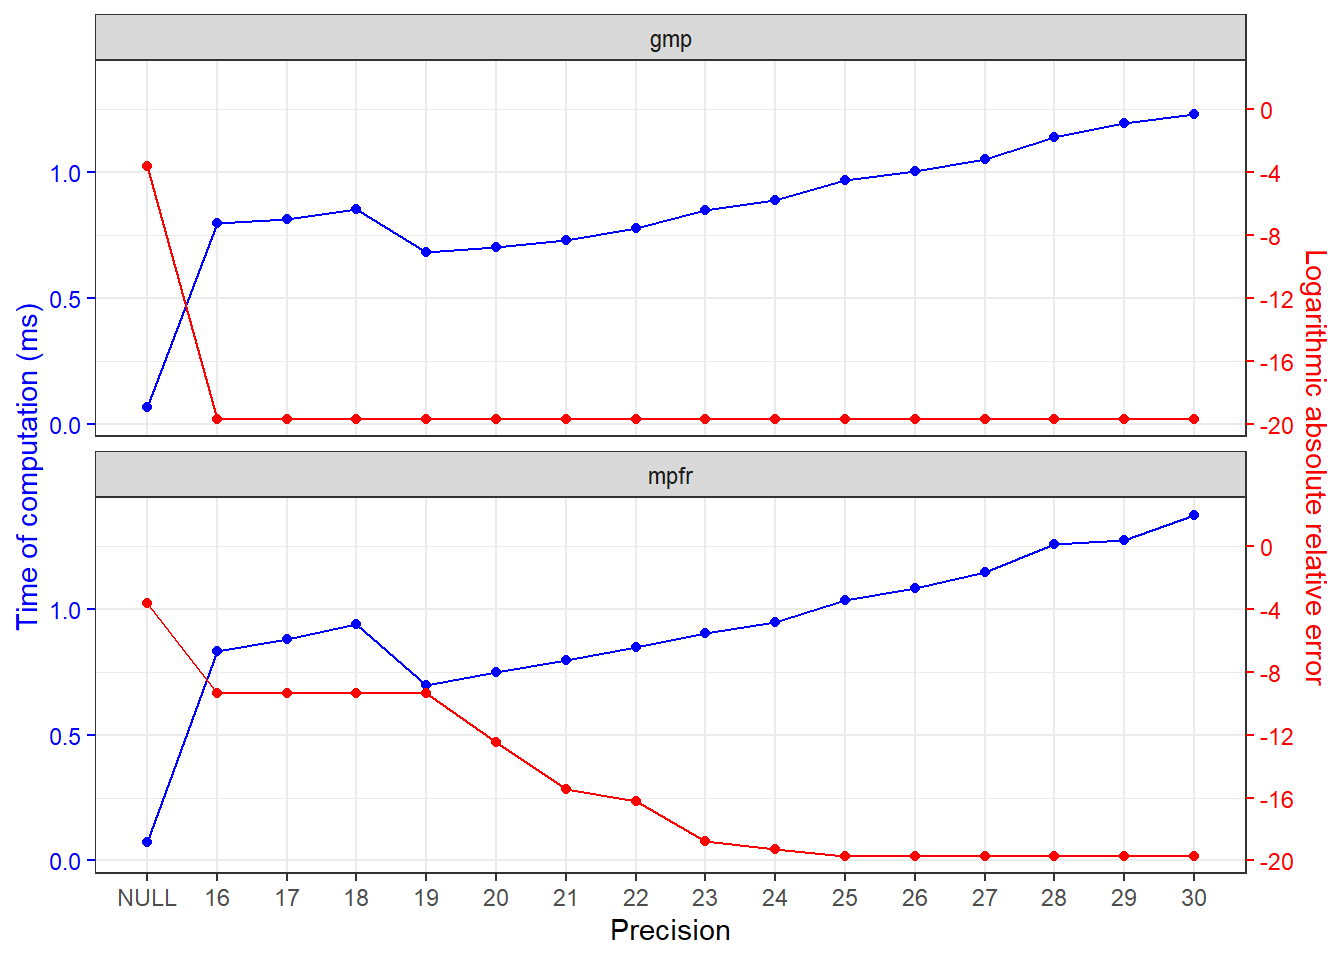
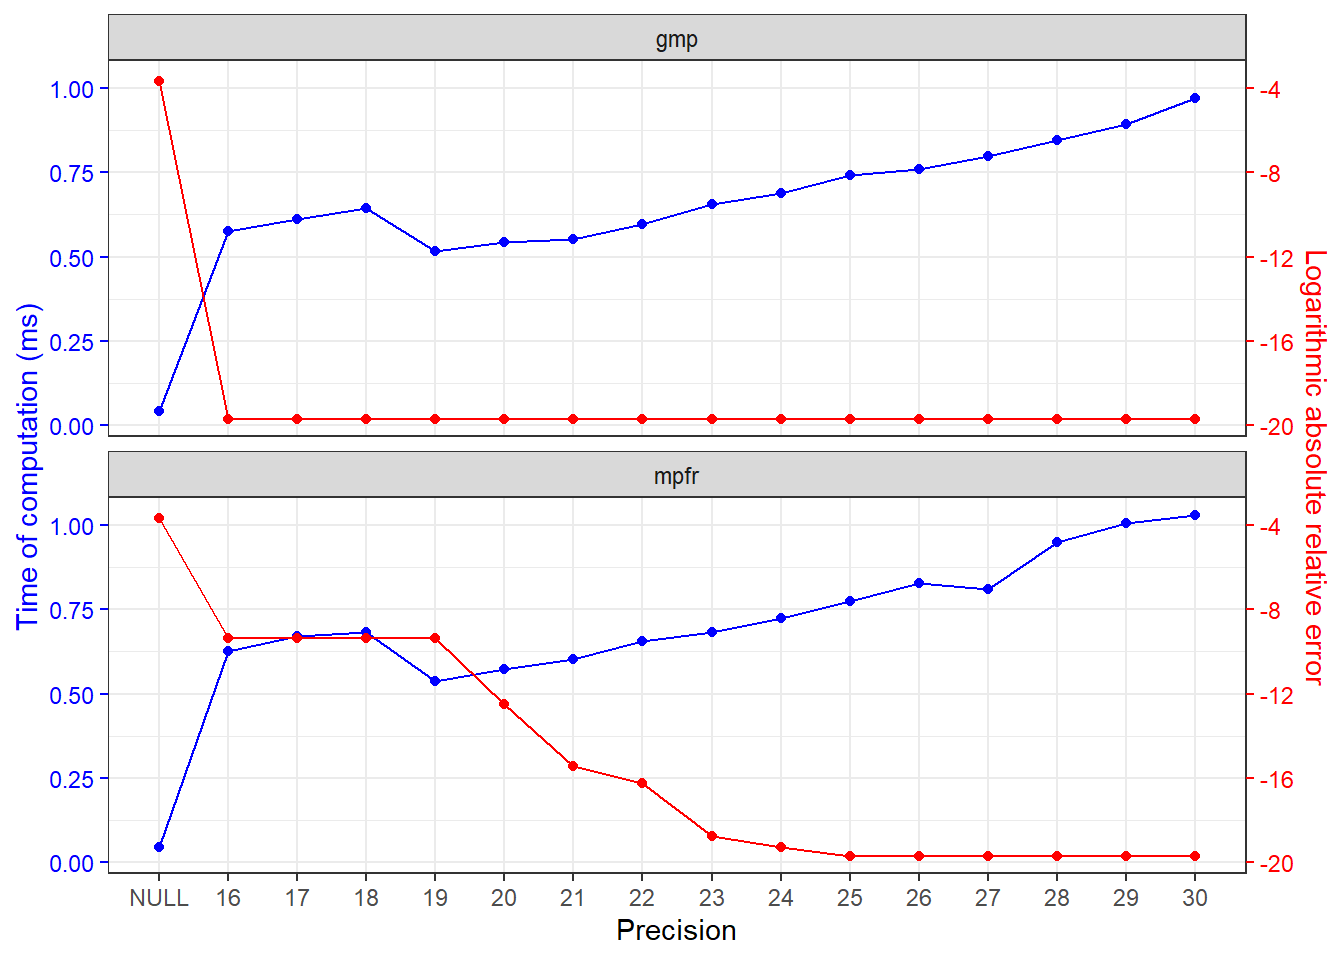
Update README.md

diff --git a/README.md b/README.md
@@ -15,8 +15,8 @@ stats](https://cranlogs.r-pkg.org/badges/grand-total/hypergeo2)](https://CRAN.R-
 <!-- badges: end -->
 
 **Package**: [*hypergeo2*](https://github.com/zhuxr11/hypergeo2)
-0.2.0<br /> **Author**: Xiurui Zhu<br /> **Modified**: 2024-09-17
-23:33:00<br /> **Compiled**: 2024-10-14 22:55:54
+0.2.1<br /> **Author**: Xiurui Zhu<br /> **Modified**: 2026-11-24
+10:21:19<br /> **Compiled**: 2026-11-26 10:00:14
 
 The goal of `hypergeo2` is to implement generalized hypergeometric
 function with tunable high precision. Two floating-point datatypes –
